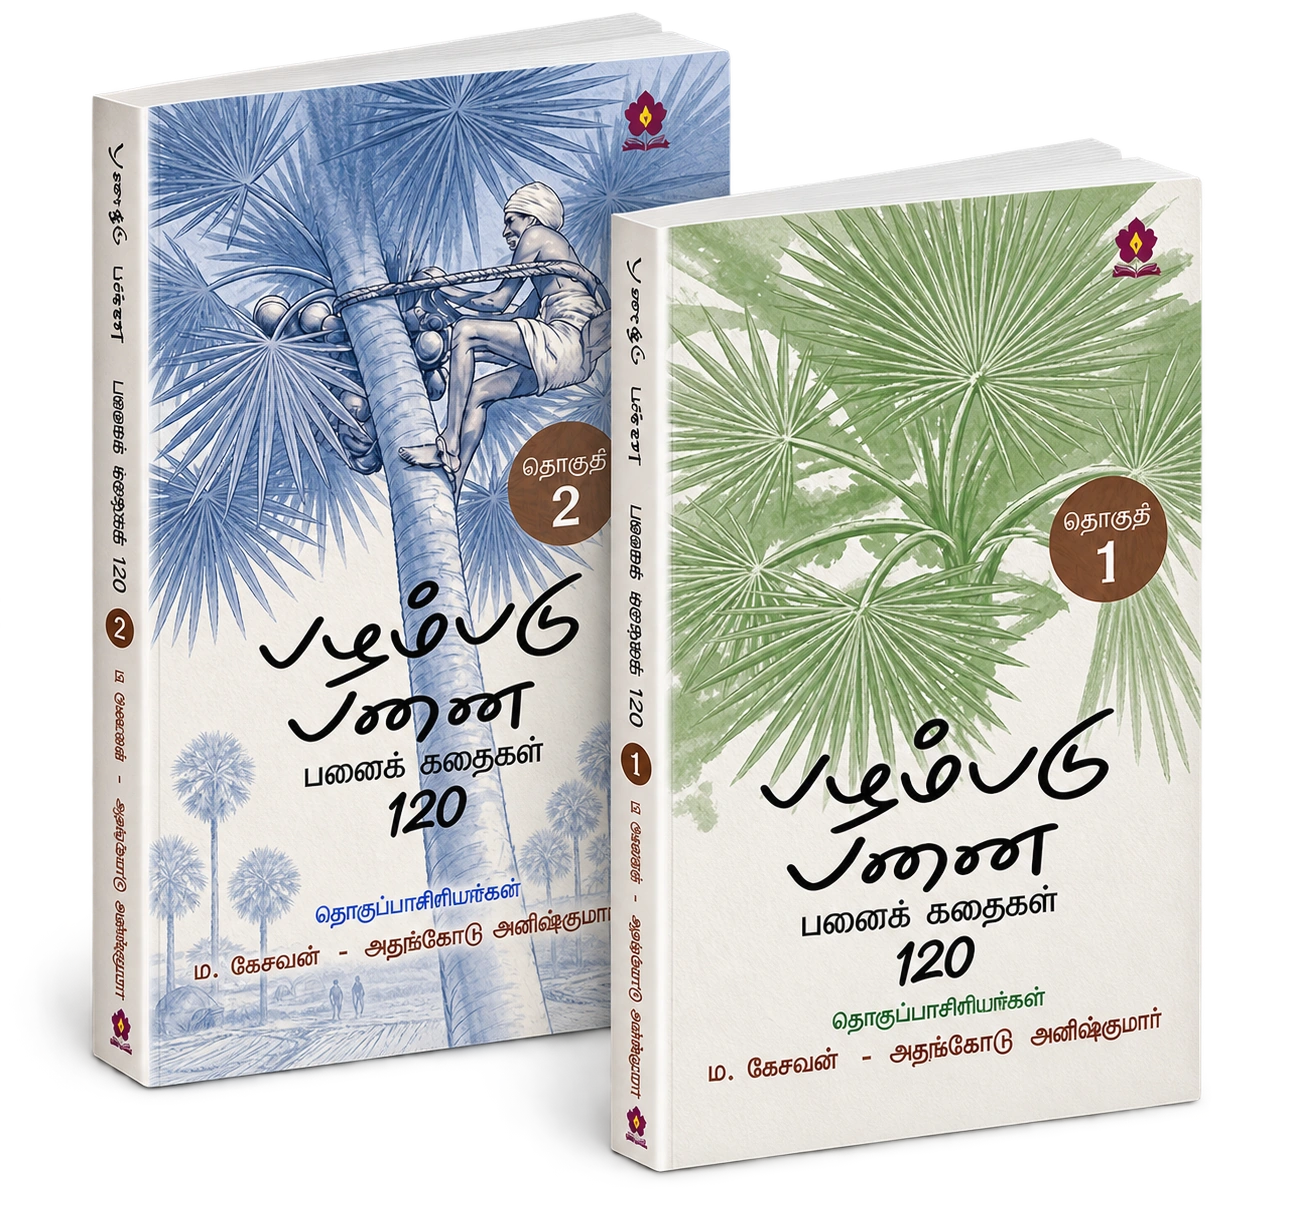
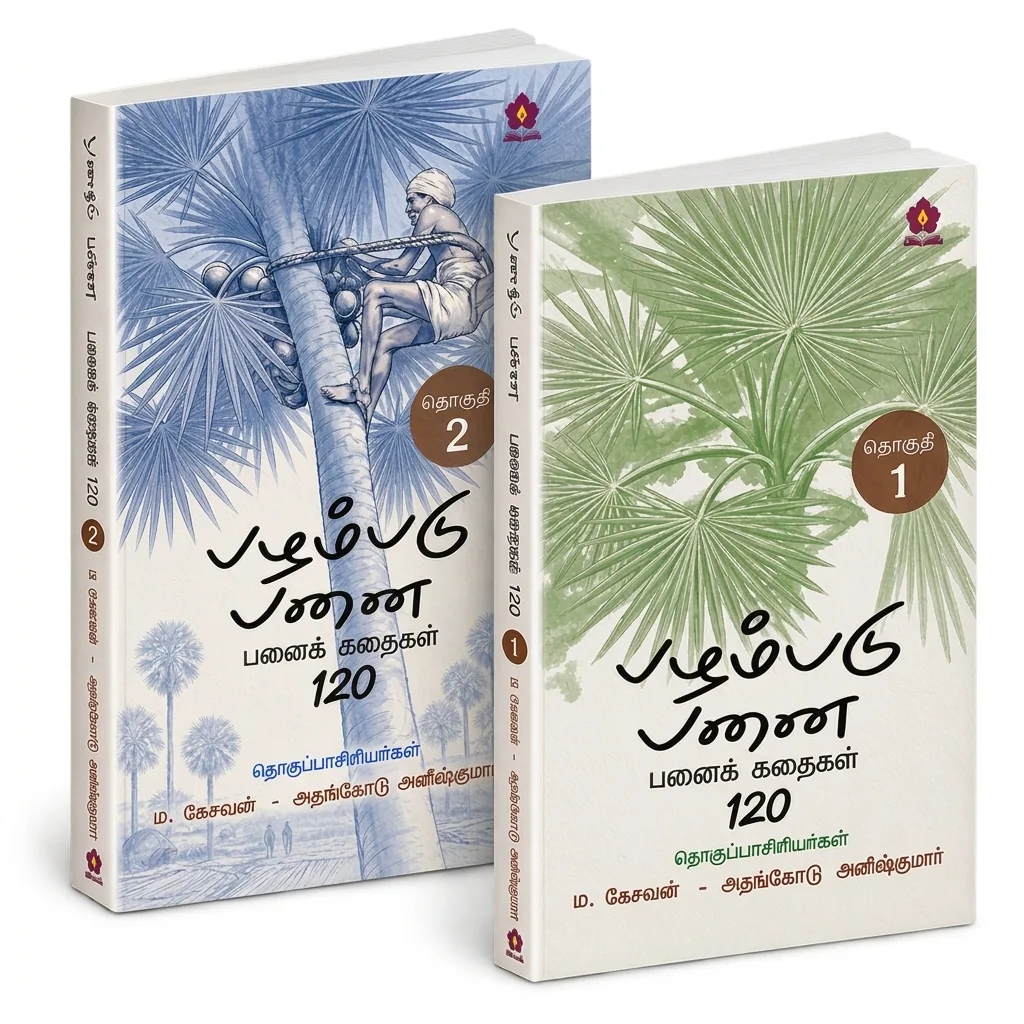
style: update panai book card background to white and update images

diff --git a/components/BookList.tsx b/components/BookList.tsx
@@ -30,7 +30,7 @@ export default function BookList({ dict, lang }: { dict: any, lang: string }) {
                <div key={book.id} className="flex flex-col md:flex-row justify-center items-center md:items-start gap-6 md:gap-10 border-b border-neutral-200/80 pb-10 md:pb-12 last:border-0 last:pb-0 bg-white p-5 sm:p-7 rounded-2xl shadow-2xs">
                   <div className="book-card w-full max-w-[220px] sm:max-w-[260px] md:max-w-[280px] mx-auto md:mx-0 flex-shrink-0">
                     <div className="relative group">
-                      <div className={`aspect-2/3 overflow-hidden shadow-[0_8px_20px_rgba(0,0,0,0.12)] rounded-xl ${isPanai ? 'bg-[#F4F1EA] flex items-center justify-center p-3' : 'bg-neutral-100'}`}>
+                      <div className={`aspect-2/3 overflow-hidden shadow-[0_8px_20px_rgba(0,0,0,0.12)] rounded-xl ${isPanai ? 'bg-white flex items-center justify-center p-3' : 'bg-neutral-100'}`}>
                         <Link href={`${langPrefix}/books/${book.id}`} className="w-full h-full relative block">
                           <Image 
                             src={book.image} 
